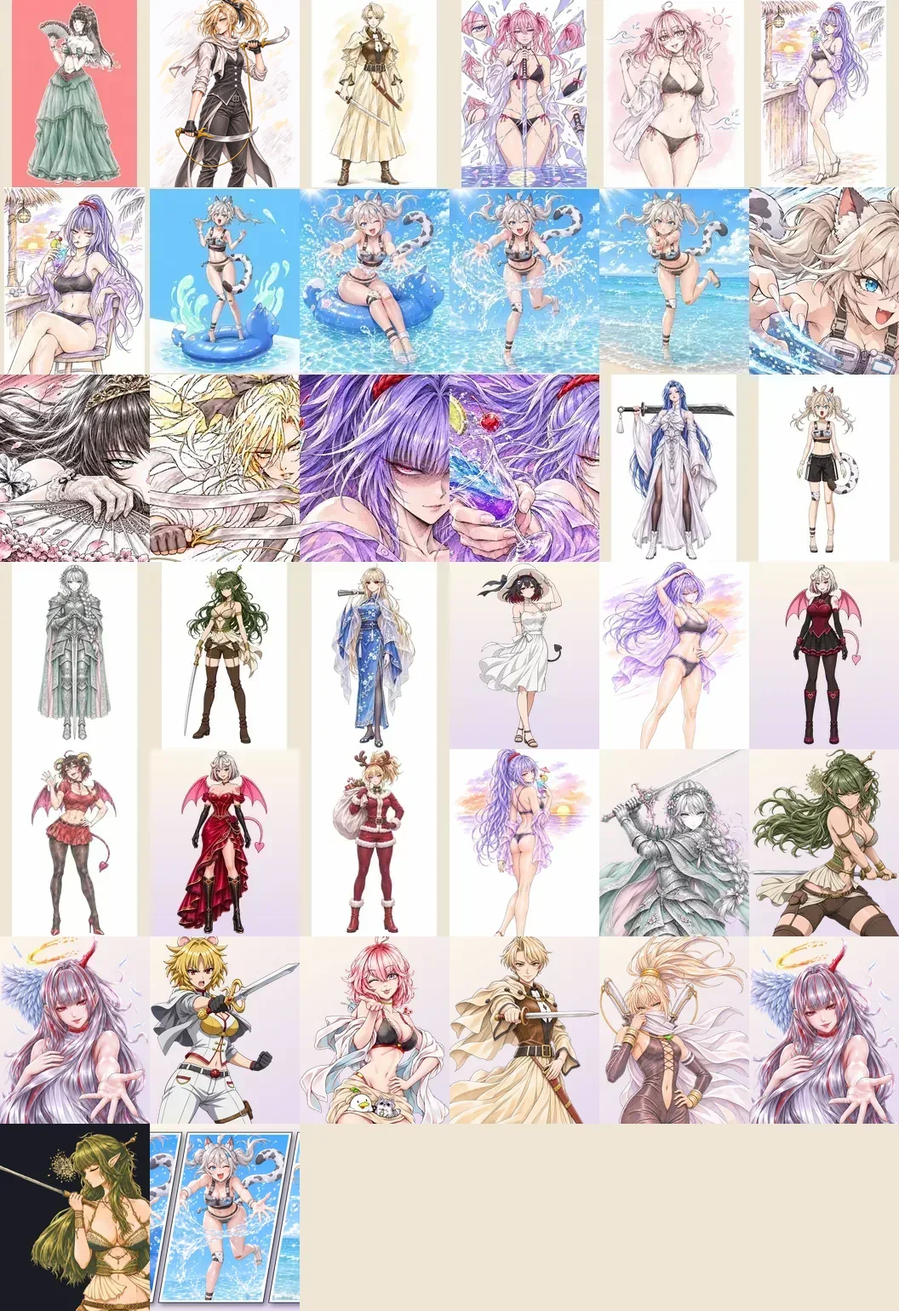
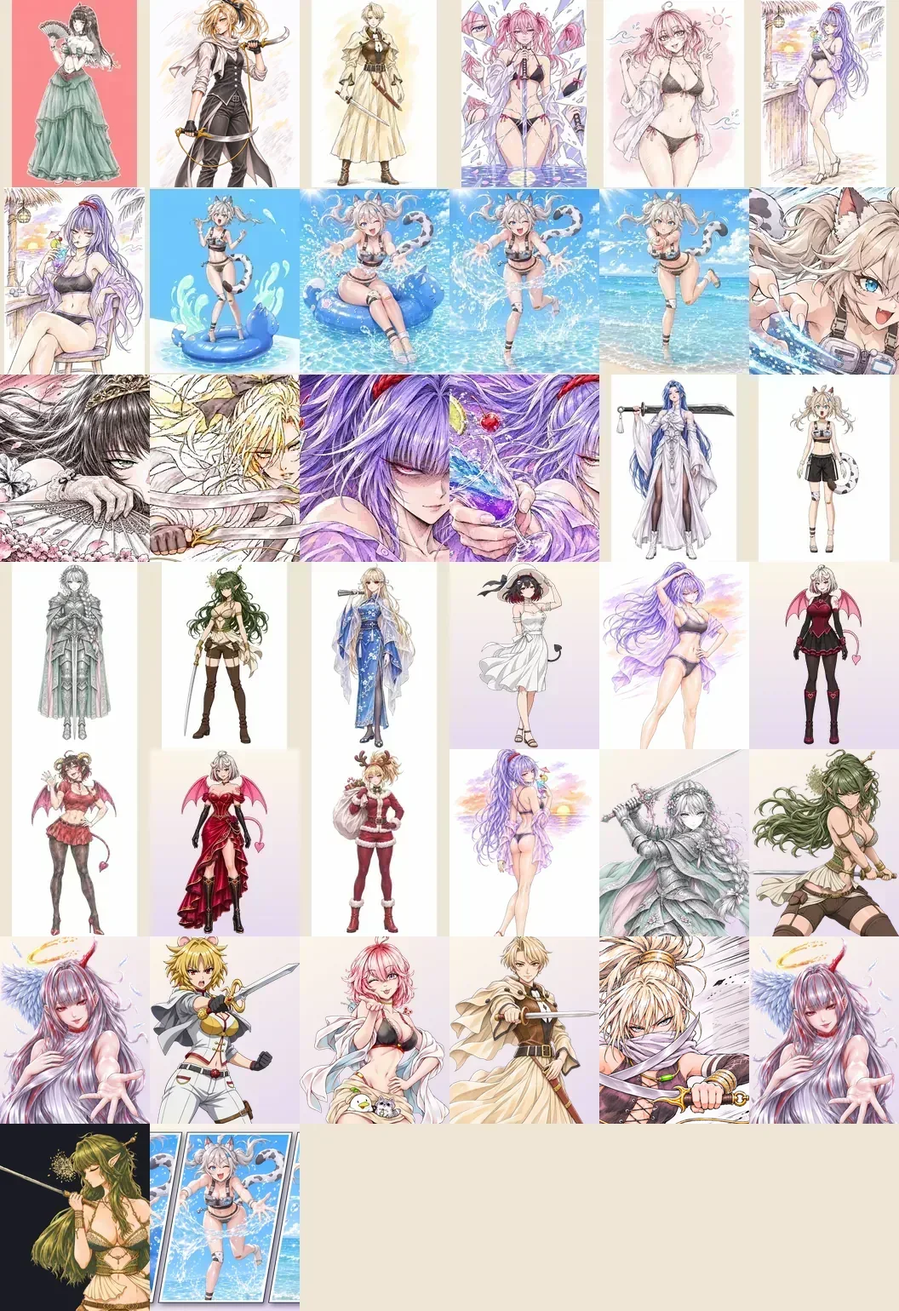
v1.13.15.2 마르자나 표준 새 필살기 컷인
Claude-Session: https://claude.ai/code/session_01PBDNhaywpHQ5s49Snvd1Mw

Changed region(s): [[0.6562, 0.7169, 0.8438, 0.8727]]

diff --git a/index.html b/index.html
@@ -384,7 +384,7 @@ dialog.notes{background:linear-gradient(180deg,#e6d8bd,#d9c8a8);border:1px solid
 .shrow .ic{display:grid;place-items:center;width:36px;height:36px;border-radius:6px;background:#efe3cb;border:1px solid #b89c6c;font-size:20px;font-family:'Apple Color Emoji','Segoe UI Emoji','Noto Color Emoji',sans-serif}
 .shm b{display:block;font-size:15px;color:#2e2218}.shd{font-size:12px;color:#6b5640}
 .pips{display:flex;gap:3px;margin-top:4px}.pips i{width:12px;height:5px;border-radius:2px;background:#d8c7a6}.pips i.on{background:#c9701e}
-.shbuy{min-width:84px}.achoff{opacity:.62}.achoff .ic{filter:grayscale(1)}.achc{font-weight:700;white-space:nowrap;font-size:.92em}.achget{flex:none;padding:7px 14px;border:0;border-radius:10px;background:linear-gradient(#ffcf4a,#f0a41c);color:#4a2a00;font:inherit;font-weight:800;cursor:pointer;box-shadow:0 2px 0 #b9740c;white-space:nowrap}.achget:active{transform:translateY(1px);box-shadow:none}.shrow.achrdy{background:rgba(255,214,90,.28);border-color:#e6a627;box-shadow:0 0 0 2px rgba(240,164,28,.35) inset}.achall{display:block;width:100%;margin:8px 0 2px;padding:10px;font-size:1.05em}.achdot{display:inline-block;min-width:18px;padding:0 5px;margin-left:4px;border-radius:9px;background:#e8402a;color:#fff;font-size:.8em;line-height:18px;text-align:center}.galgrid{display:grid;grid-template-columns:repeat(auto-fill,minmax(112px,1fr));gap:8px}.galit{display:flex;flex-direction:column;align-items:center;gap:3px;padding:6px;border:1px solid #c4ad84;border-radius:8px;background:rgba(250,244,232,.55);font:inherit;cursor:pointer;color:#3b2a16}.galit b{font-size:.82em;line-height:1.2;text-align:center}.galtag{font-style:normal;font-size:.7em;opacity:.7;line-height:1.1}.galit em{font-style:normal;font-size:.78em;font-weight:700;color:#9a5a12}.galth{display:block;width:104px;height:130px;border-radius:5px;background:#efe6d6 url('assets/gallery/thumbs2.webp?v=7') no-repeat;background-size:600% 700%}/* 썸네일은 한 장짜리 모음(6×7) */.galalpha{background:linear-gradient(160deg,#fdf6ea,#e7d9f3)}.galit.lock .galth{filter:blur(6px) brightness(.55) saturate(.6)}.galit.lock{opacity:.9}.galview{position:fixed;inset:0;z-index:99999;background:rgba(8,8,14,.93);display:flex;align-items:center;justify-content:center}.galview img{max-width:96vw;max-height:84vh;object-fit:contain;border-radius:6px;box-shadow:0 10px 40px rgba(0,0,0,.6)}.galview img.galalpha{background:linear-gradient(160deg,#fdf6ea,#e7d9f3)}.galcap{position:absolute;left:0;right:0;bottom:14px;text-align:center;color:#fff;text-shadow:0 1px 4px #000}.galcap b{display:block;font-size:1.05em}.galcap span{font-size:.82em;opacity:.85}.galx,.galp,.galn{position:absolute;border:0;background:rgba(255,255,255,.14);color:#fff;font-size:28px;width:48px;height:48px;border-radius:50%;cursor:pointer}.galx{top:14px;right:14px;font-size:22px}.galp{left:12px;top:50%;transform:translateY(-50%)}.galn{right:12px;top:50%;transform:translateY(-50%)}.achtabs{display:flex;flex-wrap:wrap;gap:6px;margin:4px 0 10px}.achtab{flex:1 1 auto;padding:7px 10px;border:1px solid #c4ad84;border-radius:999px;background:rgba(250,244,232,.55);font:inherit;font-weight:700;cursor:pointer;color:#5a4224}.achtab small{opacity:.7;font-weight:600}.achtab.on{background:#d9822b;border-color:#b0611a;color:#fff}.shbuy:disabled{opacity:.55}
+.shbuy{min-width:84px}.achoff{opacity:.62}.achoff .ic{filter:grayscale(1)}.achc{font-weight:700;white-space:nowrap;font-size:.92em}.achget{flex:none;padding:7px 14px;border:0;border-radius:10px;background:linear-gradient(#ffcf4a,#f0a41c);color:#4a2a00;font:inherit;font-weight:800;cursor:pointer;box-shadow:0 2px 0 #b9740c;white-space:nowrap}.achget:active{transform:translateY(1px);box-shadow:none}.shrow.achrdy{background:rgba(255,214,90,.28);border-color:#e6a627;box-shadow:0 0 0 2px rgba(240,164,28,.35) inset}.achall{display:block;width:100%;margin:8px 0 2px;padding:10px;font-size:1.05em}.achdot{display:inline-block;min-width:18px;padding:0 5px;margin-left:4px;border-radius:9px;background:#e8402a;color:#fff;font-size:.8em;line-height:18px;text-align:center}.galgrid{display:grid;grid-template-columns:repeat(auto-fill,minmax(112px,1fr));gap:8px}.galit{display:flex;flex-direction:column;align-items:center;gap:3px;padding:6px;border:1px solid #c4ad84;border-radius:8px;background:rgba(250,244,232,.55);font:inherit;cursor:pointer;color:#3b2a16}.galit b{font-size:.82em;line-height:1.2;text-align:center}.galtag{font-style:normal;font-size:.7em;opacity:.7;line-height:1.1}.galit em{font-style:normal;font-size:.78em;font-weight:700;color:#9a5a12}.galth{display:block;width:104px;height:130px;border-radius:5px;background:#efe6d6 url('assets/gallery/thumbs2.webp?v=8') no-repeat;background-size:600% 700%}/* 썸네일은 한 장짜리 모음(6×7) */.galalpha{background:linear-gradient(160deg,#fdf6ea,#e7d9f3)}.galit.lock .galth{filter:blur(6px) brightness(.55) saturate(.6)}.galit.lock{opacity:.9}.galview{position:fixed;inset:0;z-index:99999;background:rgba(8,8,14,.93);display:flex;align-items:center;justify-content:center}.galview img{max-width:96vw;max-height:84vh;object-fit:contain;border-radius:6px;box-shadow:0 10px 40px rgba(0,0,0,.6)}.galview img.galalpha{background:linear-gradient(160deg,#fdf6ea,#e7d9f3)}.galcap{position:absolute;left:0;right:0;bottom:14px;text-align:center;color:#fff;text-shadow:0 1px 4px #000}.galcap b{display:block;font-size:1.05em}.galcap span{font-size:.82em;opacity:.85}.galx,.galp,.galn{position:absolute;border:0;background:rgba(255,255,255,.14);color:#fff;font-size:28px;width:48px;height:48px;border-radius:50%;cursor:pointer}.galx{top:14px;right:14px;font-size:22px}.galp{left:12px;top:50%;transform:translateY(-50%)}.galn{right:12px;top:50%;transform:translateY(-50%)}.achtabs{display:flex;flex-wrap:wrap;gap:6px;margin:4px 0 10px}.achtab{flex:1 1 auto;padding:7px 10px;border:1px solid #c4ad84;border-radius:999px;background:rgba(250,244,232,.55);font:inherit;font-weight:700;cursor:pointer;color:#5a4224}.achtab small{opacity:.7;font-weight:600}.achtab.on{background:#d9822b;border-color:#b0611a;color:#fff}.shbuy:disabled{opacity:.55}
 .shmsg{min-height:18px;color:#2f8a62;font-weight:700;margin:6px 0 0}
 </style>
 
@@ -3510,8 +3510,8 @@ $('retryBtn').onclick=()=>{const h=G.skin||G.heroId;stopMusic();newGame(h)};
 buildPicks(id=>{const k=KIT(id),w=WEAP[HERO[k][0]];/* 1.9.6.0 카드엔 무기 이름·체력·속도만, 자세한 건 툴팁 */return`<span class="pt">${w.ic||''} ${w.name}</span><span class="ps">❤ ${HERO[k][1]} · 👟 ${HERO[k][2]}</span>`});
 
 /* ---------- update notes popup ---------- */
-const NOTES_VER='2026-11-15-2030';
-const NOTES=[["11월 15일 20:30","1.13.15.1","마르자나 현대판 그림 갱신",["⚔ 마르자나 현대판 「천지파열무」 필살기 컷인과 갤러리 전신 일러스트를 다듬은 그림으로 바꿨어요 (곡도 쥔 손 · 자세 수정)."]],["11월 15일 20:10","1.13.15.0","업적 보상 받기",["🏆 업적을 달성하면 업적 목록 맨 위에 반짝이며 떠요. 「받기」를 눌러 코인을 받고, 「🎁 모두 받기」로 한 번에 받을 수도 있어요.","🔴 받을 보상이 있으면 업적 버튼과 탭에 빨간 숫자가 붙어요. (예전에 달성한 업적은 이미 받은 것으로 처리돼요)"]],["11월 15일 18:00","1.13.14.1","새 모습 · 설표 비키니",["🐆 설표에 <b>비키니</b> 복장이 생겼어요. 움직임을 새로 그렸고, 필살기를 쓰면 튜브 → 물보라 → 물총 <b>3컷 컷인</b>이 나와요.","🆕 같은 캐릭터의 여러 모습 중 가장 새 모습이 1번으로 와요.","⚔ 마르자나 현대판 「천지파열무」 컷인을 새로 그린 그림으로 바꿨어요."]],["11월 15일 17:00","1.13.12.8","새 모습 · 설순이 비키니",["🍹 설순이에 <b>비키니</b> 복장: 전용 스킬 「트로피컬 태권」(펀치 · 돌려차기 · 3단 발차기, Lv5 칵테일 파도), 특성 「칵테일 타임」(멈춰 있으면 8박마다 한 모금 회복).","🌴 필살기 「트로피컬 스플래시」: 2컷 컷인 뒤 거대한 칵테일 파도 · 탄산 거품 폭발 · 종이우산 비.","⚖ 너무 세서 공격은 2박에 한 번으로(한 방 피해 +35%), 동작은 조금 느리게, 이펙트는 눈이 편하게 옅게 다듬었어요."]],["11월 15일 16:15","1.13.12.5","일러스트 갤러리 · 새 오프닝",["🖼 처음 화면 <b>일러스트</b> 메뉴: 캐릭터 일러스트 · 필살기 컷인 · LD 전신 38장을 코인으로 해금해 크게 볼 수 있어요. 캐릭터별로 묶여 있어요 (로그인 필요).","🎬 오프닝 영상을 새로 수정한 영상으로 바꿨어요."]],["11월 15일 15:00","1.13.10.0","설표 리뉴얼 · 업적 · 잠금 해제",["🐆 설표 새 움직임 · 새 컷인, Lv3부터 4박마다 표범 연속기. 설표의 얼음 기술(서리 폭발 · 절대영도 · 빙결 성채) 피해 +40%.","🏆 처음 화면 <b>업적</b>: 공통 · 쉬움 · 보통 · 어려움 · 지옥 탭, 처음 달성하면 코인 보상 (로그인 필요).","🔓 모든 캐릭터를 코인 없이 바로 플레이할 수 있어요."]],["11월 15일 11:40","1.13.4.0","새 컷인 · 넉백 조정 · 음악",["🎬 필살기 컷인 새 그림: 아오코 「꽃의 정원」 · 케이트호크 「크림슨 크로스」 · 마르자나 「혈랑마혼」 등, 비스듬한 띠가 들어왔다 빠지는 새 연출.","🌀 적을 너무 멀리 밀어내던 전용 스킬 넉백을 줄였어요 (피해는 그대로).","🎵 밤 · 보스전 배경음악, 캐릭터 선택 전용 곡. 쉬움 난이도 적 탄막은 살구색으로 잘 보이게."]],["11월 15일 04:00","1.12.0.0","새 이펙트 · 오프닝 · 밸런스",["🍃 이드 여행원피스 「여름 산들바람」 · 🐺 마르자나 「혈랑마혼」 새 그림 이펙트.","🎬 오프닝 영상과 새 음악(약 129BPM). 일러스트가 있는 캐릭터는 필살기 때 화면 가득 전신 컷인.","⚖ 전체 밸런스 조정, 몹이 많을 때 끊김 줄이기, 다미로 경화수월 필살기 일러스트."]],["11월 14일 23:55","1.9.7.0","가희 · 다미로 경화수월 · 마르자나",["🗡 새 캐릭터 가희(사파), 새 모습 다미로 경화수월, 마르자나 일반판 새 동작.","🔥 마르자나 현대판 「천지파열무」 · 유에넴 「매화신권」 새 이펙트.","🎴 캐릭터 카드 정리(설명은 말풍선), 판타지 · 무협 목록, 설구리 상향, 멈춤 화면 음량 조절."]],["11월 13일 20:30","1.8.9.5","무한 생존 · 명예의 전당 · 새 BGM",["♾ 무한 생존 강화 단계, 「기록하고 끝내기」, 명예의 전당 모드별 탭.","✨ 전설 다섯 가지 새 그림, 필살기 컷인 중 게임 완전 정지.","🎵 새 배경음악(125BPM)과 「기본 연주」 선택."]],["11월 12일 23:50","1.8.7.8","새 캐릭터 마르자나 · 코인 상점",["🌙 새 캐릭터 마르자나(현대판 · 일반판), 레오나 사자 그림과 「사자 포효」, 레이나 상향.","🪙 지역 수호자 · 코인 상점 · 캐릭터 해금, 전설 조합 발견, 무기 칸 8칸.","💥 필살기 새 단장(돌진 필살기 무적), 첫 로딩 22MB → 6MB, 모바일 최적화."]],["11월 11일 23:45","1.7.1.0","새 모드 · 지옥 변이체",["🎮 새 모드: ♾ 무한 생존 · 👹 보스 러시 (랭킹 탭 따로).","👹 지옥 변이체(화염 · 그림자 · 폭열), 지옥 레벨업 2장, 어려움 조정, 몬스터 지형 충돌.","🎯 공격 범위 색 구분, 스킬 이모티콘, 경험치 · 조합표 잘 보이게, 회복 밸런스, 카밀레 꼬리 그림."]],["11월 10일","1.6.7.3","새 캐릭터 청몽 · 루비샘 · 양피지 테마",["🐺 새 캐릭터 청몽 · 루비샘, 딘코 필살기 「지옥의 파수견」.","📜 크림 양피지 테마, 눈 편한 색, 시작 화면, 일시정지 버튼.","💬 건의 게시판 · 댓글, 전용 무기 상향, 최적화."]],["11월 9일","1.6.1.1","계정 · 온라인 랭킹 · 리워크",["🔑 계정 로그인(게스트 가능), 온라인 랭킹과 명예의 전당 시상대, 계정 기록 🎵 표시.","😼 노브냥이 새 모습 2종, 다미로 「갸루 피스」 · 딘줌마 · 수려은 · 유에넴 리워크.","📱 모바일 화질 · 최적화, 레벨업 난이도 조정."]],["11월 8일","1.2.0.0","박자 대난투 시작",["🎵 박자에 맞춰 싸우는 서바이벌 「박자 대난투」 시작! 새 플레이 캐릭터 10명 등 캐릭터 · 모습 추가.","🗺 난이도별 맵, 필드 몬스터, 전설 스킬 연출, 설정."]]]; // newest first — add new entries at the top
+const NOTES_VER='2026-11-15-2100';
+const NOTES=[["11월 15일 21:00","1.13.15.2","마르자나 표준 새 컷인",["🐺 마르자나 표준 「혈랑마혼」 필살기 컷인이 새 그림으로: 목도리로 입을 가리고 곡도 두 자루를 X자로 교차한 클로즈업이 비스듬한 띠로 휙 들어와요. 갤러리 컷인도 새 그림이에요."]],["11월 15일 20:30","1.13.15.1","마르자나 현대판 그림 갱신",["⚔ 마르자나 현대판 「천지파열무」 필살기 컷인과 갤러리 전신 일러스트를 다듬은 그림으로 바꿨어요 (곡도 쥔 손 · 자세 수정)."]],["11월 15일 20:10","1.13.15.0","업적 보상 받기",["🏆 업적을 달성하면 업적 목록 맨 위에 반짝이며 떠요. 「받기」를 눌러 코인을 받고, 「🎁 모두 받기」로 한 번에 받을 수도 있어요.","🔴 받을 보상이 있으면 업적 버튼과 탭에 빨간 숫자가 붙어요. (예전에 달성한 업적은 이미 받은 것으로 처리돼요)"]],["11월 15일 18:00","1.13.14.1","새 모습 · 설표 비키니",["🐆 설표에 <b>비키니</b> 복장이 생겼어요. 움직임을 새로 그렸고, 필살기를 쓰면 튜브 → 물보라 → 물총 <b>3컷 컷인</b>이 나와요.","🆕 같은 캐릭터의 여러 모습 중 가장 새 모습이 1번으로 와요.","⚔ 마르자나 현대판 「천지파열무」 컷인을 새로 그린 그림으로 바꿨어요."]],["11월 15일 17:00","1.13.12.8","새 모습 · 설순이 비키니",["🍹 설순이에 <b>비키니</b> 복장: 전용 스킬 「트로피컬 태권」(펀치 · 돌려차기 · 3단 발차기, Lv5 칵테일 파도), 특성 「칵테일 타임」(멈춰 있으면 8박마다 한 모금 회복).","🌴 필살기 「트로피컬 스플래시」: 2컷 컷인 뒤 거대한 칵테일 파도 · 탄산 거품 폭발 · 종이우산 비.","⚖ 너무 세서 공격은 2박에 한 번으로(한 방 피해 +35%), 동작은 조금 느리게, 이펙트는 눈이 편하게 옅게 다듬었어요."]],["11월 15일 16:15","1.13.12.5","일러스트 갤러리 · 새 오프닝",["🖼 처음 화면 <b>일러스트</b> 메뉴: 캐릭터 일러스트 · 필살기 컷인 · LD 전신 38장을 코인으로 해금해 크게 볼 수 있어요. 캐릭터별로 묶여 있어요 (로그인 필요).","🎬 오프닝 영상을 새로 수정한 영상으로 바꿨어요."]],["11월 15일 15:00","1.13.10.0","설표 리뉴얼 · 업적 · 잠금 해제",["🐆 설표 새 움직임 · 새 컷인, Lv3부터 4박마다 표범 연속기. 설표의 얼음 기술(서리 폭발 · 절대영도 · 빙결 성채) 피해 +40%.","🏆 처음 화면 <b>업적</b>: 공통 · 쉬움 · 보통 · 어려움 · 지옥 탭, 처음 달성하면 코인 보상 (로그인 필요).","🔓 모든 캐릭터를 코인 없이 바로 플레이할 수 있어요."]],["11월 15일 11:40","1.13.4.0","새 컷인 · 넉백 조정 · 음악",["🎬 필살기 컷인 새 그림: 아오코 「꽃의 정원」 · 케이트호크 「크림슨 크로스」 · 마르자나 「혈랑마혼」 등, 비스듬한 띠가 들어왔다 빠지는 새 연출.","🌀 적을 너무 멀리 밀어내던 전용 스킬 넉백을 줄였어요 (피해는 그대로).","🎵 밤 · 보스전 배경음악, 캐릭터 선택 전용 곡. 쉬움 난이도 적 탄막은 살구색으로 잘 보이게."]],["11월 15일 04:00","1.12.0.0","새 이펙트 · 오프닝 · 밸런스",["🍃 이드 여행원피스 「여름 산들바람」 · 🐺 마르자나 「혈랑마혼」 새 그림 이펙트.","🎬 오프닝 영상과 새 음악(약 129BPM). 일러스트가 있는 캐릭터는 필살기 때 화면 가득 전신 컷인.","⚖ 전체 밸런스 조정, 몹이 많을 때 끊김 줄이기, 다미로 경화수월 필살기 일러스트."]],["11월 14일 23:55","1.9.7.0","가희 · 다미로 경화수월 · 마르자나",["🗡 새 캐릭터 가희(사파), 새 모습 다미로 경화수월, 마르자나 일반판 새 동작.","🔥 마르자나 현대판 「천지파열무」 · 유에넴 「매화신권」 새 이펙트.","🎴 캐릭터 카드 정리(설명은 말풍선), 판타지 · 무협 목록, 설구리 상향, 멈춤 화면 음량 조절."]],["11월 13일 20:30","1.8.9.5","무한 생존 · 명예의 전당 · 새 BGM",["♾ 무한 생존 강화 단계, 「기록하고 끝내기」, 명예의 전당 모드별 탭.","✨ 전설 다섯 가지 새 그림, 필살기 컷인 중 게임 완전 정지.","🎵 새 배경음악(125BPM)과 「기본 연주」 선택."]],["11월 12일 23:50","1.8.7.8","새 캐릭터 마르자나 · 코인 상점",["🌙 새 캐릭터 마르자나(현대판 · 일반판), 레오나 사자 그림과 「사자 포효」, 레이나 상향.","🪙 지역 수호자 · 코인 상점 · 캐릭터 해금, 전설 조합 발견, 무기 칸 8칸.","💥 필살기 새 단장(돌진 필살기 무적), 첫 로딩 22MB → 6MB, 모바일 최적화."]],["11월 11일 23:45","1.7.1.0","새 모드 · 지옥 변이체",["🎮 새 모드: ♾ 무한 생존 · 👹 보스 러시 (랭킹 탭 따로).","👹 지옥 변이체(화염 · 그림자 · 폭열), 지옥 레벨업 2장, 어려움 조정, 몬스터 지형 충돌.","🎯 공격 범위 색 구분, 스킬 이모티콘, 경험치 · 조합표 잘 보이게, 회복 밸런스, 카밀레 꼬리 그림."]],["11월 10일","1.6.7.3","새 캐릭터 청몽 · 루비샘 · 양피지 테마",["🐺 새 캐릭터 청몽 · 루비샘, 딘코 필살기 「지옥의 파수견」.","📜 크림 양피지 테마, 눈 편한 색, 시작 화면, 일시정지 버튼.","💬 건의 게시판 · 댓글, 전용 무기 상향, 최적화."]],["11월 9일","1.6.1.1","계정 · 온라인 랭킹 · 리워크",["🔑 계정 로그인(게스트 가능), 온라인 랭킹과 명예의 전당 시상대, 계정 기록 🎵 표시.","😼 노브냥이 새 모습 2종, 다미로 「갸루 피스」 · 딘줌마 · 수려은 · 유에넴 리워크.","📱 모바일 화질 · 최적화, 레벨업 난이도 조정."]],["11월 8일","1.2.0.0","박자 대난투 시작",["🎵 박자에 맞춰 싸우는 서바이벌 「박자 대난투」 시작! 새 플레이 캐릭터 10명 등 캐릭터 · 모습 추가.","🗺 난이도별 맵, 필드 몬스터, 전설 스킬 연출, 설정."]]]; // newest first — add new entries at the top
 const NOTES_SHOW=3;
 const NOTES_HTML=(()=>{const ent=([t,ver,title,items],i)=>`<section class='nent'><h3><span class='nver'>v${ver}</span><time>${t}</time>${title}${i===0?"<span class='nnew'>NEW</span>":''}</h3><ul>${items.map(x=>`<li>${x}</li>`).join('')}</ul></section>`;
   const top=NOTES.slice(0,NOTES_SHOW).map(ent).join(''),old=NOTES.slice(NOTES_SHOW);
@@ -3520,7 +3520,7 @@ function showNotes(){let d=document.getElementById('notesDlg');if(!d){d=document
     d.innerHTML=`<div class="nbody">${NOTES_HTML}</div><div class="nbtns"><button type="button" class="btn" id="notesOk">확인</button></div>`;document.body.appendChild(d);
     const close=()=>{try{localStorage.setItem('bb_notes_seen',NOTES_VER)}catch(e){}d.close()};d.querySelector('#notesOk').onclick=close;d.addEventListener('cancel',()=>{try{localStorage.setItem('bb_notes_seen',NOTES_VER)}catch(e){}});d.addEventListener('click',e=>{if(e.target===d)close()})}
   if(!d.open){if(d.showModal)d.showModal();else d.setAttribute('open','')}d.querySelector('#notesOk').focus()}
-(function(){const st=document.getElementById('settings');if(st&&!document.getElementById('notesBtn')){const b=document.createElement('button');b.type='button';b.id='notesBtn';b.className='notesbtn';b.textContent='업데이트 소식 · v1.13.15.1';b.onclick=showNotes;st.insertAdjacentElement('afterend',b)}
+(function(){const st=document.getElementById('settings');if(st&&!document.getElementById('notesBtn')){const b=document.createElement('button');b.type='button';b.id='notesBtn';b.className='notesbtn';b.textContent='업데이트 소식 · v1.13.15.2';b.onclick=showNotes;st.insertAdjacentElement('afterend',b)}
   let seen='';try{seen=localStorage.getItem('bb_notes_seen')||''}catch(e){}if(seen!==NOTES_VER)SPLASH_DONE.then(()=>setTimeout(showNotes,300))})();
 document.querySelectorAll('.pick').forEach(b=>b.onclick=()=>{if(performance.now()<PTOG)return;newGame(b.dataset.hero)});refreshLocks();
 function showOnly(id){['titleOv','lvOv','pauseOv','endOv'].forEach(k=>$(k).hidden=k!==id);$('spBtn').hidden=id!==null;$('pzBtn').hidden=id!==null}
@@ -3713,10 +3713,10 @@ let last=performance.now();
 /* 1.8.5.7 컷인 개선: 컷인이 떠 있는 동안 게임 시간을 거의 멈추고(0.04배), 컷인을 짧게(0.8초)·위쪽으로 올려 필살기 연출이 컷인 뒤에 처음부터 보이게 */
 let CUT_T=.8;/* 1.11.0.0 전신 컷인이 있는 캐릭터는 1.25초 */
 /* 1.9.3.1 필살기 컷인에 LD 일러스트 사용 (있는 캐릭터만; 없거나 아직 안 떴으면 SD) */
-const CUTLD={gahee:'assets/sprites/gahee_ld2.webp',yuenem:'assets/sprites/yuenem_ld.webp',damiroK:'assets/sprites/damiroK_ld.webp',nid:'assets/sprites/nid_ld.webp',knight:'assets/sprites/knight_ld.webp',glassesB:'assets/sprites/glassesB_ld.webp',nobu:'assets/sprites/nobu_ld.webp',nobu2:'assets/sprites/nobu2_ld.webp',nobu3:'assets/sprites/nobu3_ld.webp',elf:'assets/sprites/elf_ld.webp',idtrip:'assets/sprites/idtrip_ld.webp',kate:'assets/sprites/kate_ld.webp',marjanao:'assets/sprites/marjanao_ld.webp',angel:'assets/sprites/angel_ld.webp',violet:'assets/sprites/violet_ld.webp'}/* 1.9.8.0 LD 일러스트가 있는 캐릭터는 필살기 발동 화면에 일러스트 */,CUTIM={};/* 1.11.0.0 제작 컷인(무릎 위 전신 그림): 띠 대신 화면 가득 연출 */const CUTART={violet:'assets/sprites/cut_violet.webp',violetR:'assets/sprites/cut_violet.webp',knight:'assets/sprites/cut_knight.webp',angel:'assets/sprites/cut_angel.webp',marjanao:'assets/sprites/cut_marjanao.webp?v=2',damiro:'assets/sprites/cut_damiro.webp',lion:'assets/sprites/cut_lion.webp',elf:'assets/sprites/cut_elf.webp',devil:'assets/sprites/cut_devil.webp',nid:'assets/sprites/cut_nid2.webp',glassesB:'assets/sprites/cut_glassesB.webp?v=2',nobu:'assets/sprites/cut_nobu.webp?v=2',nobu2:'assets/sprites/cut_nobu2.webp?v=2',nobu3:'assets/sprites/cut_nobu3.webp?v=2',idtrip:'assets/sprites/cut_idtrip.webp?v=2',kate:'assets/sprites/cut_kate.webp?v=3',gahee:'assets/sprites/cut_gahee.webp?v=2',yuenem:'assets/sprites/cut_yuenem.webp?v=2',damiroK:'assets/sprites/cut_damiroK.webp?v=4',marjanam:'assets/sprites/cut_marjanam.webp?v=4',princess:'assets/sprites/cut_princess.webp?v=2'},CUTFX={marjanam:.62,princess:.72,nid:.7}/* 가로 컷인: 얼굴이 있는 가로 위치(0~1) */,CUTAIM={};/* 1.11.0.1 LD 일러스트만 있던 캐릭터도 같은 전신 컷인으로 */
+const CUTLD={gahee:'assets/sprites/gahee_ld2.webp',yuenem:'assets/sprites/yuenem_ld.webp',damiroK:'assets/sprites/damiroK_ld.webp',nid:'assets/sprites/nid_ld.webp',knight:'assets/sprites/knight_ld.webp',glassesB:'assets/sprites/glassesB_ld.webp',nobu:'assets/sprites/nobu_ld.webp',nobu2:'assets/sprites/nobu2_ld.webp',nobu3:'assets/sprites/nobu3_ld.webp',elf:'assets/sprites/elf_ld.webp',idtrip:'assets/sprites/idtrip_ld.webp',kate:'assets/sprites/kate_ld.webp',marjanao:'assets/sprites/marjanao_ld.webp',angel:'assets/sprites/angel_ld.webp',violet:'assets/sprites/violet_ld.webp'}/* 1.9.8.0 LD 일러스트가 있는 캐릭터는 필살기 발동 화면에 일러스트 */,CUTIM={};/* 1.11.0.0 제작 컷인(무릎 위 전신 그림): 띠 대신 화면 가득 연출 */const CUTART={violet:'assets/sprites/cut_violet.webp',violetR:'assets/sprites/cut_violet.webp',knight:'assets/sprites/cut_knight.webp',angel:'assets/sprites/cut_angel.webp',marjanao:'assets/sprites/cut_marjanao.webp?v=3',damiro:'assets/sprites/cut_damiro.webp',lion:'assets/sprites/cut_lion.webp',elf:'assets/sprites/cut_elf.webp',devil:'assets/sprites/cut_devil.webp',nid:'assets/sprites/cut_nid2.webp',glassesB:'assets/sprites/cut_glassesB.webp?v=2',nobu:'assets/sprites/cut_nobu.webp?v=2',nobu2:'assets/sprites/cut_nobu2.webp?v=2',nobu3:'assets/sprites/cut_nobu3.webp?v=2',idtrip:'assets/sprites/cut_idtrip.webp?v=2',kate:'assets/sprites/cut_kate.webp?v=3',gahee:'assets/sprites/cut_gahee.webp?v=2',yuenem:'assets/sprites/cut_yuenem.webp?v=2',damiroK:'assets/sprites/cut_damiroK.webp?v=4',marjanam:'assets/sprites/cut_marjanam.webp?v=4',princess:'assets/sprites/cut_princess.webp?v=2'},CUTFX={marjanam:.62,princess:.72,nid:.7}/* 가로 컷인: 얼굴이 있는 가로 위치(0~1) */,CUTAIM={};/* 1.11.0.1 LD 일러스트만 있던 캐릭터도 같은 전신 컷인으로 */
 const cutArt=id=>{const im=CUTAIM[id];return im&&im.complete&&im.naturalWidth?im:null};
 /* 1.13.8.0 GIF 컷인: 일러스트 폴더에 미리보기 GIF가 있는 캐릭터는 그 연출 그대로 (band: 비스듬한 종이 띠 + 투명 캐릭터판, 2cut: 화면 가득 1컷 → 섬광 → 2컷) */
-const CUTGIF={nid:{mode:'band',a:'assets/sprites/cutc_nid.webp',fx:.7},princess:{mode:'band',a:'assets/sprites/cutc_princess.webp',fx:.72},marjanam:{mode:'band',a:'assets/sprites/cutc_marjanam.webp?v=3',fx:.62},violetB:{mode:'2cut',a:'assets/sprites/cut_violetB1.webp',b:'assets/sprites/cut_violetB2.webp'},nidB:{mode:'3cut',a:'assets/sprites/cut3_nidB.webp'}},CGIM={};
+const CUTGIF={nid:{mode:'band',a:'assets/sprites/cutc_nid.webp',fx:.7},princess:{mode:'band',a:'assets/sprites/cutc_princess.webp',fx:.72},marjanam:{mode:'band',a:'assets/sprites/cutc_marjanam.webp?v=3',fx:.62},marjanao:{mode:'band',a:'assets/sprites/cutc_marjanao.webp',fx:.72},violetB:{mode:'2cut',a:'assets/sprites/cut_violetB1.webp',b:'assets/sprites/cut_violetB2.webp'},nidB:{mode:'3cut',a:'assets/sprites/cut3_nidB.webp'}},CGIM={};
 const cgI=src=>{const im=CGIM[src];return im&&im.complete&&im.naturalWidth?im:null};
 function needCutGif(id){const g=CUTGIF[id];if(!g)return;for(const src of [g.a,g.b])if(src&&!CGIM[src]){const im=new Image();im.decoding='async';im.src=src;if(im.decode)im.decode().catch(()=>{});CGIM[src]=im}}
 const cutGifOk=id=>{const g=CUTGIF[id];return !!(g&&cgI(g.a)&&(!g.b||cgI(g.b)))};
@@ -4463,7 +4463,7 @@ function showAch(){let d=$('achDlg');if(!d){d=document.createElement('dialog');d
   d.querySelector('#achOk').onclick=()=>d.close();const done=c=>{if(c)toast(`🪙 업적 보상 +${c.toLocaleString()} 코인`,1600);showAch()};d.querySelectorAll('.achget').forEach(b=>b.onclick=async()=>{b.disabled=true;done(await achClaim([b.dataset.id]))});const all=d.querySelector('#achAll');if(all)all.onclick=async()=>{all.disabled=true;done(await achClaim(RD.map(a=>a.id)))};d.querySelectorAll('.achtab').forEach(b=>b.onclick=()=>{ACHT=b.dataset.g;showAch()});if(!d.open)d.showModal?d.showModal():d.setAttribute('open','')}
 
 /* 1.13.11.0 일러스트 갤러리: 캐릭터 일러스트 · 필살기 컷인 · LD 전신을 코인으로 해금해서 크게 보기. 해금 기록은 SH.data.gal (계정, 로그인 필요) */
-const GAL=[{id:'il_aoko',n:'아오코',g:'일러스트',c:60,a:0,t:0},{id:'il_marjanam',n:'마르자나 · 현대판',g:'일러스트',c:60,a:0,t:1,f:'assets/gallery/il_marjanam.webp?v=3'},{id:'il_kate',n:'케이트호크',g:'일러스트',c:60,a:0,t:2},{id:'il_damiroK',n:'다미로 · 경화수월',g:'일러스트',c:60,a:0,t:3},{id:'il_damiroB',n:'다미로 · 비키니',g:'일러스트',c:60,a:0,t:4},{id:'il_violetB',n:'설순이 · 칵테일',g:'일러스트',c:60,a:0,t:5},{id:'il_violetB2',n:'설순이 · 바텐더 의자',g:'일러스트',c:60,a:0,t:6},{id:'il_violetB3',n:'설순이 · 바람 부는 해변',g:'일러스트',c:60,a:0,t:22},{id:'il_violetB4',n:'설순이 · 노을 한 모금',g:'일러스트',c:60,a:0,t:27},{id:'il_angel',n:'이드 · 천사악마 전신',g:'일러스트',c:60,a:0,t:35},{id:'il_nid',n:'설표 · 고양이 튜브',g:'일러스트',c:60,a:0,t:7},{id:'il_nid2',n:'설표 · 튜브 물장난',g:'일러스트',c:60,a:0,t:8},{id:'il_nid3',n:'설표 · 물보라',g:'일러스트',c:60,a:0,t:9},{id:'il_nid4',n:'설표 · 물총',g:'일러스트',c:60,a:0,t:10},{id:'ct_nid',n:'설표 · 눈송이 발차기',g:'필살기 컷인',c:30,a:0,t:11,f:'assets/sprites/cut_nid2.webp'},{id:'ct_princess',n:'아오코 · 꽃의 정원',g:'필살기 컷인',c:30,a:0,t:12,f:'assets/sprites/cut_princess.webp'},{id:'ct_marjanam',n:'마르자나 · 천지파열무',g:'필살기 컷인',c:30,a:0,t:13,f:'assets/sprites/cut_marjanam.webp?v=4'},{id:'ct_violetB1',n:'설순이 · 째려보기',g:'필살기 컷인',c:30,a:0,t:14,f:'assets/sprites/cut_violetB1.webp'},{id:'ct_violetB2',n:'설순이 · 칵테일 뿌리기',g:'필살기 컷인',c:30,a:0,t:15,f:'assets/sprites/cut_violetB2.webp'},{id:'ct_elf',n:'레이나 · 질풍 연참',g:'필살기 컷인',c:30,a:1,t:29,f:'assets/sprites/cut_elf.webp'},{id:'ct_knight',n:'세레나 · 월광 베기',g:'필살기 컷인',c:30,a:1,t:28,f:'assets/sprites/cut_knight.webp'},{id:'ct_angel',n:'이드 · 심판의 고리',g:'필살기 컷인',c:30,a:1,t:30,f:'assets/sprites/cut_angel.webp'},{id:'ct_lion',n:'레오나 · 사자 포효',g:'필살기 컷인',c:30,a:1,t:31,f:'assets/sprites/cut_lion.webp'},{id:'ct_damiro',n:'다미로 · 하트 스핀',g:'필살기 컷인',c:30,a:1,t:32,f:'assets/sprites/cut_damiro.webp'},{id:'ct_nidB',n:'설표 · 비키니 3컷',g:'필살기 컷인',c:40,a:1,t:37},{id:'ct_elf2',n:'레이나 · 질풍 연참 (움직이는 컷인)',g:'필살기 컷인',c:40,a:0,t:36},{id:'ct_kate',n:'케이트호크 · 크림슨 크로스',g:'필살기 컷인',c:30,a:1,t:33,f:'assets/sprites/cut_kate.webp?v=3'},{id:'ct_marjanao',n:'마르자나 · 혈랑마혼',g:'필살기 컷인',c:30,a:1,t:34,f:'assets/sprites/cut_marjanao.webp?v=2'},{id:'ld_gahee',n:'가희 · 사파',g:'LD 전신',c:40,a:0,t:16},{id:'ld_nid',n:'설표',g:'LD 전신',c:40,a:0,t:17},{id:'ld_knight',n:'세레나',g:'LD 전신',c:40,a:0,t:18},{id:'ld_elf',n:'레이나',g:'LD 전신',c:40,a:0,t:19},{id:'ld_yuenem',n:'유에넴',g:'LD 전신',c:40,a:0,t:20},{id:'ld_idtrip',n:'이드 · 여행원피스',g:'LD 전신',c:40,a:1,t:21},{id:'ld_nobu',n:'노브냥이 · 서큐버스',g:'LD 전신',c:40,a:1,t:23},{id:'ld_nobu2',n:'노브냥이 · 서큐버스 2',g:'LD 전신',c:40,a:0,t:24},{id:'ld_nobuR',n:'노브냥이 · 루비 드레스',g:'LD 전신',c:40,a:1,t:25},{id:'ld_santa',n:'마르자나 · 산타',g:'LD 전신',c:40,a:0,t:26}],GALG=['일러스트','필살기 컷인','LD 전신'],GALI={'일러스트':'🎨','필살기 컷인':'🎬','LD 전신':'🧍'};
+const GAL=[{id:'il_aoko',n:'아오코',g:'일러스트',c:60,a:0,t:0},{id:'il_marjanam',n:'마르자나 · 현대판',g:'일러스트',c:60,a:0,t:1,f:'assets/gallery/il_marjanam.webp?v=3'},{id:'il_kate',n:'케이트호크',g:'일러스트',c:60,a:0,t:2},{id:'il_damiroK',n:'다미로 · 경화수월',g:'일러스트',c:60,a:0,t:3},{id:'il_damiroB',n:'다미로 · 비키니',g:'일러스트',c:60,a:0,t:4},{id:'il_violetB',n:'설순이 · 칵테일',g:'일러스트',c:60,a:0,t:5},{id:'il_violetB2',n:'설순이 · 바텐더 의자',g:'일러스트',c:60,a:0,t:6},{id:'il_violetB3',n:'설순이 · 바람 부는 해변',g:'일러스트',c:60,a:0,t:22},{id:'il_violetB4',n:'설순이 · 노을 한 모금',g:'일러스트',c:60,a:0,t:27},{id:'il_angel',n:'이드 · 천사악마 전신',g:'일러스트',c:60,a:0,t:35},{id:'il_nid',n:'설표 · 고양이 튜브',g:'일러스트',c:60,a:0,t:7},{id:'il_nid2',n:'설표 · 튜브 물장난',g:'일러스트',c:60,a:0,t:8},{id:'il_nid3',n:'설표 · 물보라',g:'일러스트',c:60,a:0,t:9},{id:'il_nid4',n:'설표 · 물총',g:'일러스트',c:60,a:0,t:10},{id:'ct_nid',n:'설표 · 눈송이 발차기',g:'필살기 컷인',c:30,a:0,t:11,f:'assets/sprites/cut_nid2.webp'},{id:'ct_princess',n:'아오코 · 꽃의 정원',g:'필살기 컷인',c:30,a:0,t:12,f:'assets/sprites/cut_princess.webp'},{id:'ct_marjanam',n:'마르자나 · 천지파열무',g:'필살기 컷인',c:30,a:0,t:13,f:'assets/sprites/cut_marjanam.webp?v=4'},{id:'ct_violetB1',n:'설순이 · 째려보기',g:'필살기 컷인',c:30,a:0,t:14,f:'assets/sprites/cut_violetB1.webp'},{id:'ct_violetB2',n:'설순이 · 칵테일 뿌리기',g:'필살기 컷인',c:30,a:0,t:15,f:'assets/sprites/cut_violetB2.webp'},{id:'ct_elf',n:'레이나 · 질풍 연참',g:'필살기 컷인',c:30,a:1,t:29,f:'assets/sprites/cut_elf.webp'},{id:'ct_knight',n:'세레나 · 월광 베기',g:'필살기 컷인',c:30,a:1,t:28,f:'assets/sprites/cut_knight.webp'},{id:'ct_angel',n:'이드 · 심판의 고리',g:'필살기 컷인',c:30,a:1,t:30,f:'assets/sprites/cut_angel.webp'},{id:'ct_lion',n:'레오나 · 사자 포효',g:'필살기 컷인',c:30,a:1,t:31,f:'assets/sprites/cut_lion.webp'},{id:'ct_damiro',n:'다미로 · 하트 스핀',g:'필살기 컷인',c:30,a:1,t:32,f:'assets/sprites/cut_damiro.webp'},{id:'ct_nidB',n:'설표 · 비키니 3컷',g:'필살기 컷인',c:40,a:1,t:37},{id:'ct_elf2',n:'레이나 · 질풍 연참 (움직이는 컷인)',g:'필살기 컷인',c:40,a:0,t:36},{id:'ct_kate',n:'케이트호크 · 크림슨 크로스',g:'필살기 컷인',c:30,a:1,t:33,f:'assets/sprites/cut_kate.webp?v=3'},{id:'ct_marjanao',n:'마르자나 · 혈랑마혼',g:'필살기 컷인',c:30,a:1,t:34,f:'assets/sprites/cut_marjanao.webp?v=3'},{id:'ld_gahee',n:'가희 · 사파',g:'LD 전신',c:40,a:0,t:16},{id:'ld_nid',n:'설표',g:'LD 전신',c:40,a:0,t:17},{id:'ld_knight',n:'세레나',g:'LD 전신',c:40,a:0,t:18},{id:'ld_elf',n:'레이나',g:'LD 전신',c:40,a:0,t:19},{id:'ld_yuenem',n:'유에넴',g:'LD 전신',c:40,a:0,t:20},{id:'ld_idtrip',n:'이드 · 여행원피스',g:'LD 전신',c:40,a:1,t:21},{id:'ld_nobu',n:'노브냥이 · 서큐버스',g:'LD 전신',c:40,a:1,t:23},{id:'ld_nobu2',n:'노브냥이 · 서큐버스 2',g:'LD 전신',c:40,a:0,t:24},{id:'ld_nobuR',n:'노브냥이 · 루비 드레스',g:'LD 전신',c:40,a:1,t:25},{id:'ld_santa',n:'마르자나 · 산타',g:'LD 전신',c:40,a:0,t:26}],GALG=['일러스트','필살기 컷인','LD 전신'],GALI={'일러스트':'🎨','필살기 컷인':'🎬','LD 전신':'🧍'};
 const galOwn=id=>AU.on&&!!(SH.data&&SH.data.gal&&SH.data.gal[id]);
 async function galBuy(it){if(!AU.on)return 'login';SH.load();if(galOwn(it.id))return 'have';if(AU.coins()<it.c)return 'poor';await AU.addCoins(-it.c);SH.data.gal=SH.data.gal||{};SH.data.gal[it.id]=1;SH.save();return 'ok'}
 function galView(i){const L=galOrd().filter(x=>galOwn(x.id));let k=Math.max(0,L.findIndex(x=>x.id===i));let v=$('galView');if(!v){v=document.createElement('div');v.id='galView';v.className='galview';const dd=$('galDlg');(dd&&dd.open?dd:document.body).appendChild(v)/* 모달 창 위(top layer)에 보이게 창 안에 붙임 */}
